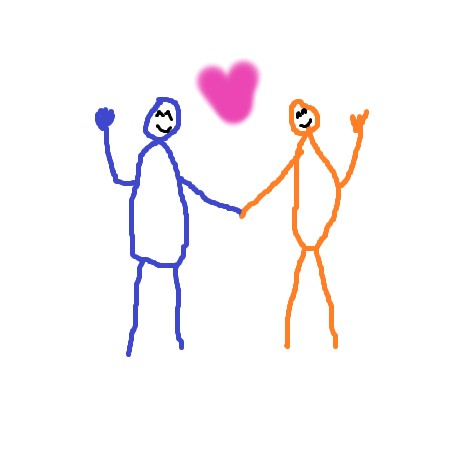
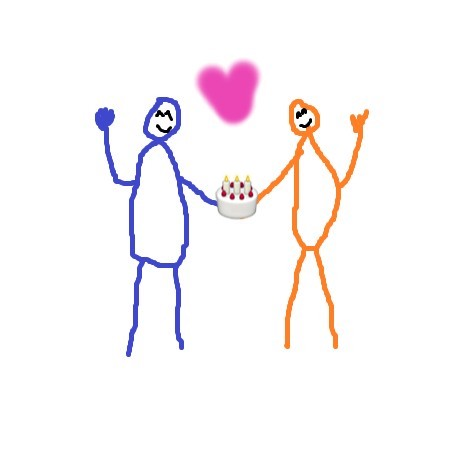
update

Changed region(s): [[0.4565, 0.3652, 0.5783, 0.487]]

diff --git a/index.html b/index.html
@@ -10,13 +10,13 @@
 <center>
 
     <body>
-        <h1>Happy Valentine's Day Chotu Baby 😚😚😚</h1>
-        <img src="./ts and st.jpg" alt="ts and st image"></img>
-        <p>I could have simply said this but then I remembered that Jin once said
+        <h1>Happy Birthday Chotu Babyyyy 😚😚😚</h1>
+        <img src="./ts and st.jpg" alt="*Image removed for copyright*"></img>
+        <!--<p>I could have simply said this but then I remembered that Jin once said
             <a href="https://www.youtube.com/watch?v=WMweEpGlu_U&t=143s">
                 <button>this</button>
             </a>
-        </p>
+        </p>-->
     </body>
 </center>
 
